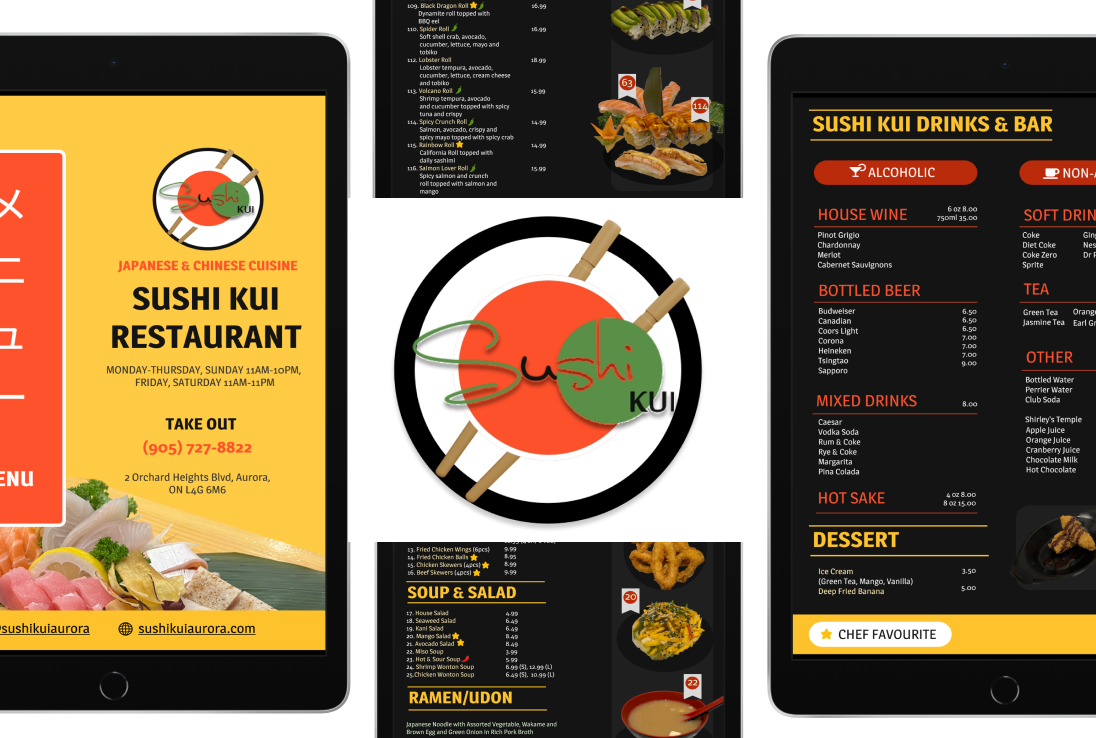
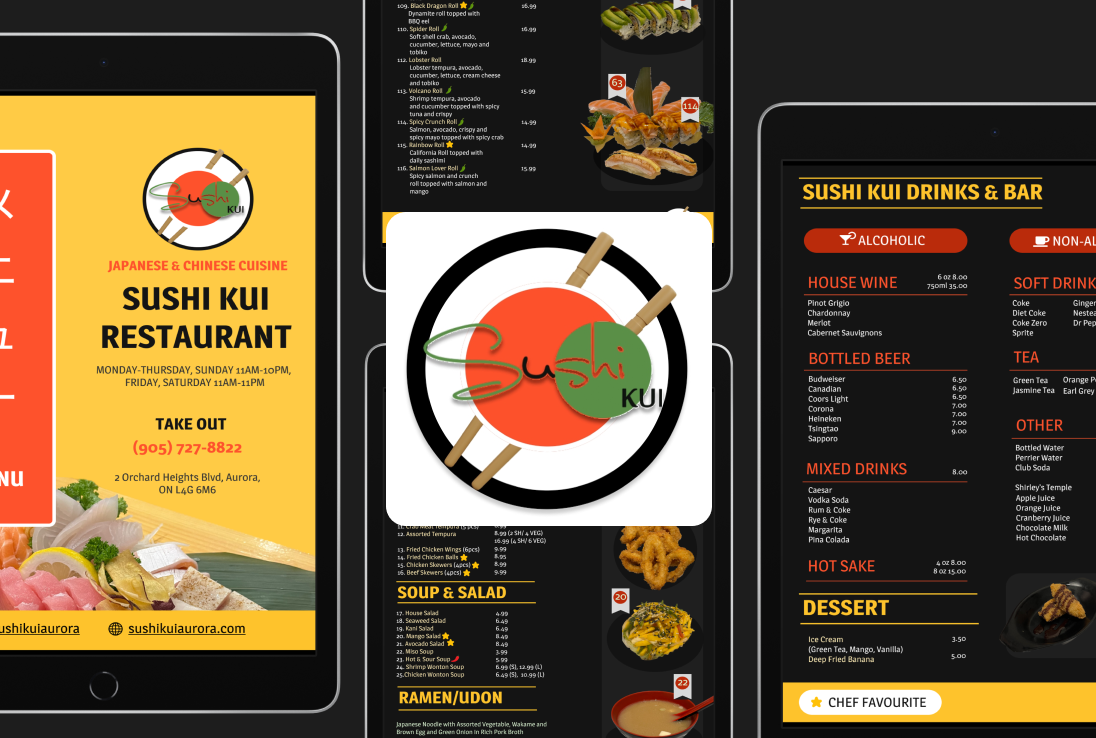
bento dark mode

diff --git a/webstyle.css b/webstyle.css
@@ -22,7 +22,7 @@
     --bg-box: #ededed;
     --outline-box: #262626;
 
-    --bg-bento: #e3e8ee;
+    --bg-bento: #bbc2cb;
 }
 
 /* Global Styles */
